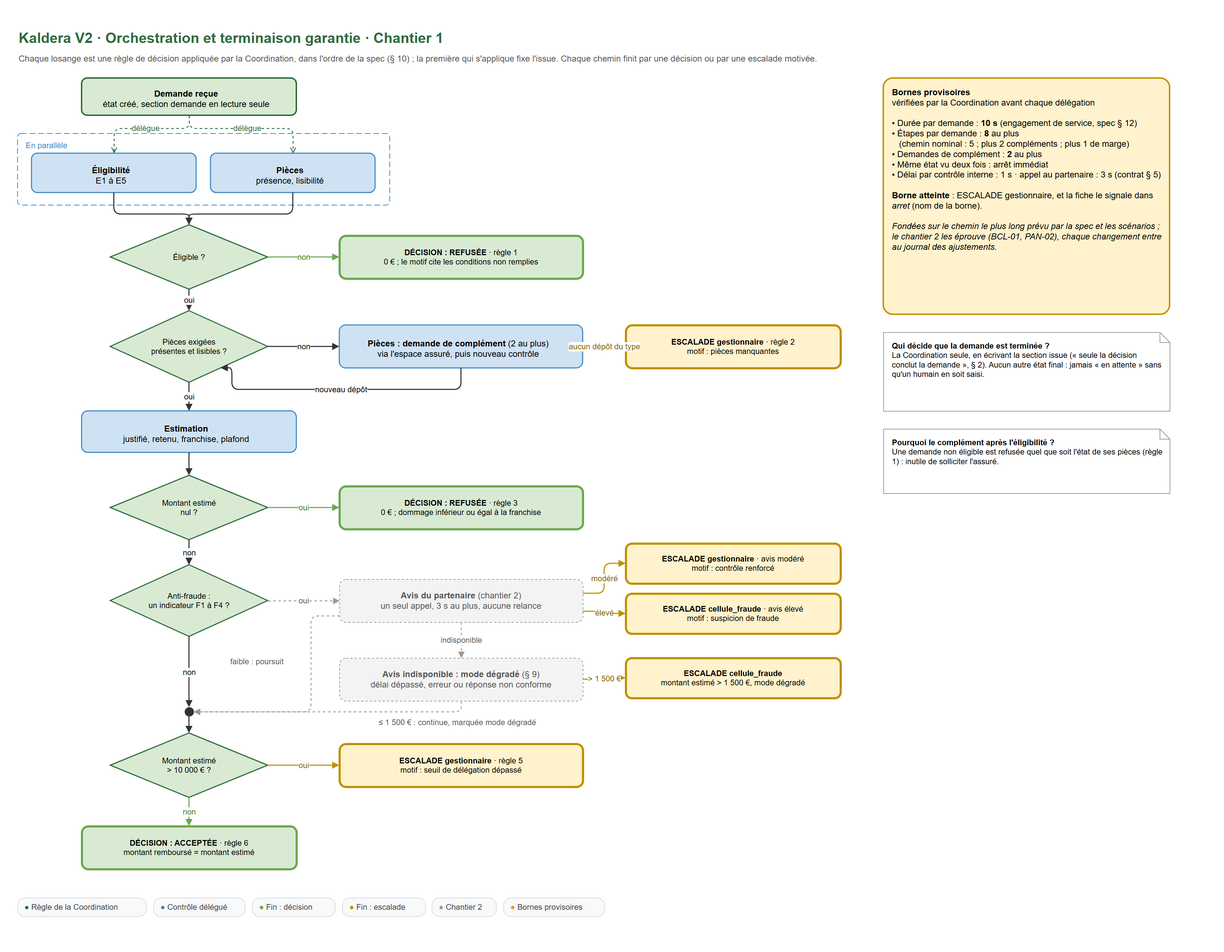
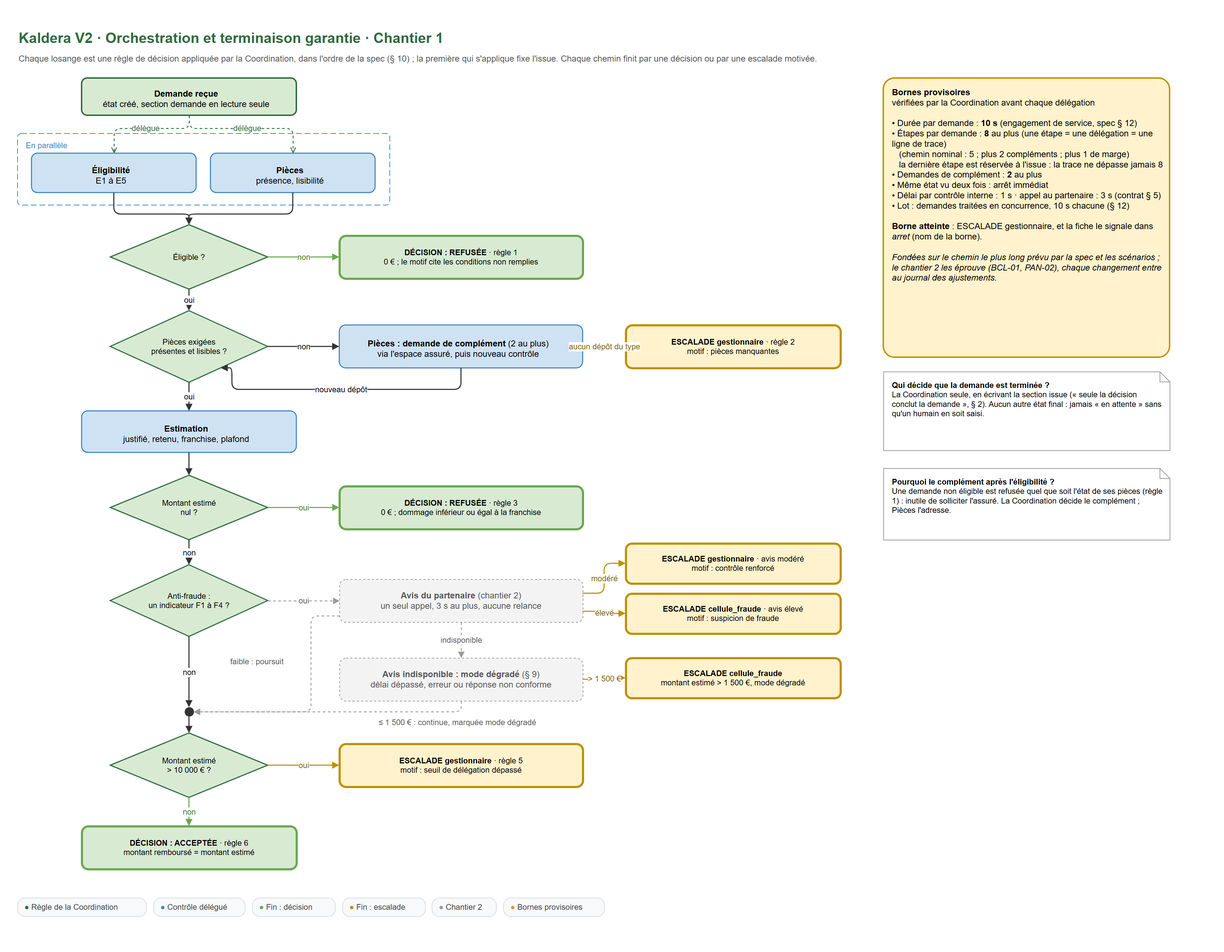
docs(chantier 1): relecture contre le brief, sept corrections
- pieces peut etre reecrite par son proprietaire apres chaque depot ;
  les autres sections metier ne sont ecrites qu'une fois
- definition d'une etape ; la derniere etape est reservee a l'issue,
  la trace ne depasse jamais etapes_max
- traiter_lot traite les demandes en concurrence (spec 12)
- la Coordination decide la demande de complement, Pieces l'adresse
- pourquoi cinq agents alors que le brief en cite quatre
- noms fixes des agents dans la trace et les metriques
- coherence des pieces = type attendu ; marqueur d'appel dans controle

Changed region(s): [[0.7129, 0.1248, 0.9608, 0.5305]]

diff --git a/scripts/make_schemas_ch1.py b/scripts/make_schemas_ch1.py
@@ -30,10 +30,10 @@ s.box("elig", "<b>Éligibilité</b> (règles en code) · <b>écrit : eligibilite
               + ROUGE_TXT + "chiffrer la demande, appliquer le plafond, juger les pièces ou la fraude." + FIN,
       50, 255, 400, 175, S_AGENT)
 s.box("pieces", "<b>Pièces justificatives</b> (code) · <b>écrit : pieces</b><br><br>"
-                "Vérifie présence, lisibilité et cohérence des pièces exigées. Demande un complément via l'espace assuré "
-                "(seulement si la demande est éligible).<br>"
+                "Vérifie présence, lisibilité et type attendu des pièces exigées. Adresse le complément via l'espace "
+                "assuré quand la Coordination le lui confie (demande éligible).<br>"
                 "Renvoie : complet, ou manquantes ; les factures lisibles.<br><br>"
-                + ROUGE_TXT + "conclure ou escalader la demande, chiffrer, juger la fraude." + FIN,
+                + ROUGE_TXT + "conclure ou escalader la demande, chiffrer, juger la fraude, décider seul d'un complément." + FIN,
       50, 445, 400, 185, S_AGENT)
 s.box("estim", "<b>Estimation</b> (règles en code) · <b>écrit : estimation</b><br><br>"
                "Montant justifié (factures lisibles), montant retenu (le plus petit des deux), "
@@ -115,21 +115,25 @@ s.box("t6", "<b>DÉCISION : ACCEPTÉE</b> · règle 6<br>montant remboursé = mo
 
 s.box("bornes", "<b>Bornes provisoires</b><br>vérifiées par la Coordination avant chaque délégation<br><br>"
                 "• Durée par demande : <b>10 s</b> (engagement de service, spec § 12)<br>"
-                "• Étapes par demande : <b>8</b> au plus<br>&nbsp;&nbsp;&nbsp;(chemin nominal : 5 ; plus 2 compléments ; plus 1 de marge)<br>"
+                "• Étapes par demande : <b>8</b> au plus (une étape = une délégation = une ligne de trace)<br>"
+                "&nbsp;&nbsp;&nbsp;(chemin nominal : 5 ; plus 2 compléments ; plus 1 de marge)<br>"
+                "&nbsp;&nbsp;&nbsp;la dernière étape est réservée à l'issue : la trace ne dépasse jamais 8<br>"
                 "• Demandes de complément : <b>2</b> au plus<br>"
                 "• Même état vu deux fois : arrêt immédiat<br>"
-                "• Délai par contrôle interne : 1 s · appel au partenaire : 3 s (contrat § 5)<br><br>"
+                "• Délai par contrôle interne : 1 s · appel au partenaire : 3 s (contrat § 5)<br>"
+                "• Lot : demandes traitées en concurrence, 10 s chacune (§ 12)<br><br>"
                 "<b>Borne atteinte</b> : ESCALADE gestionnaire, et la fiche le signale dans <i>arret</i> (nom de la borne).<br><br>"
                 "<i>Fondées sur le chemin le plus long prévu par la spec et les scénarios ; "
                 "le chantier 2 les éprouve (BCL-01, PAN-02), chaque changement entre au journal des ajustements.</i>",
-      1240, 95, 400, 330, S_AMBIG + "fillColor=#fff2cc;strokeColor=#bf9000;arcSize=4;")
+      1240, 95, 400, 390, S_AMBIG + "fillColor=#fff2cc;strokeColor=#bf9000;arcSize=4;")
 s.box("qui", "<b>Qui décide que la demande est terminée ?</b><br>"
              "La Coordination seule, en écrivant la section issue (« seule la décision conclut la demande », § 2). "
              "Aucun autre état final : jamais « en attente » sans qu'un humain en soit saisi.",
-      1240, 450, 400, 110, S_NOTE)
+      1240, 505, 400, 110, S_NOTE)
 s.box("comp", "<b>Pourquoi le complément après l'éligibilité ?</b><br>"
               "Une demande non éligible est refusée quel que soit l'état de ses pièces (règle 1) : "
-              "inutile de solliciter l'assuré.", 1240, 585, 400, 90, S_NOTE)
+              "inutile de solliciter l'assuré. La Coordination décide le complément ; Pièces l'adresse.",
+      1240, 640, 400, 100, S_NOTE)
 
 s.edge("a1", "s0", "e", E_DELEG, "délègue", [(270, 165), (165, 165)], sortie=(0.5, 1), entree=(0.5, 0))
 s.edge("a2", "s0", "p", E_DELEG, "délègue", [(270, 165), (415, 165)], sortie=(0.5, 1), entree=(0.5, 0))
@@ -170,8 +174,8 @@ s.ecrire("schema-2-orchestration", "Orchestration et terminaison", 1670, 1290)
 # =============================================================================================================
 s = Schema()
 s.box("t", "Kaldera V2 · Mémoire partagée de la demande · Chantier 1", 30, 20, 1100, 30, S_TITRE)
-s.box("st", "Un état par demande. Chaque agent écrit sa seule section métier, une seule fois ; la trace enregistre "
-            "qui a écrit quoi (interface.md).", 30, 54, 1200, 22, S_SOUS)
+s.box("st", "Un état par demande. Seul son propriétaire écrit une section métier ; la trace enregistre "
+            "qui a écrit quoi à chaque étape (interface.md).", 30, 54, 1200, 22, S_SOUS)
 
 s.box("agents", "Agents : chacun écrit sa section, lit seulement ce dont il a besoin", 30, 100, 400, 640, S_GROUPE)
 AG = S_AGENT + "fontSize=11;"
@@ -196,7 +200,7 @@ sections = [
      SEC_AGENT, 426),
     ("issue", "<b>issue</b> · écrite par la Coordination, conclut la demande<br>décision ou escalade, montant, motif, file, mode dégradé",
      SEC_ORCH, 506),
-    ("controle", "<b>controle</b> (hors métier) : compteurs des bornes, arret", SEC_ORCH, 584),
+    ("controle", "<b>controle</b> (hors métier) : compteurs des bornes, marqueur d'appel au partenaire, arret", SEC_ORCH, 584),
     ("trace", "<b>trace</b> (hors métier), ajout seul : une étape par ligne<br>agent, sections écrites, action, durée, statut",
      SEC_ORCH, 648),
 ]
@@ -208,7 +212,7 @@ for agent, section in [("ae", "eligibilite"), ("ap", "pieces"), ("aes", "estimat
 
 s.box("garde", "<b>Comment un agent n'écrase pas le travail d'un autre</b><br>"
                "• Une table fixe propriétaire de chaque section ; écrire dans une autre section est refusé (erreur de droits).<br>"
-               "• Chaque section métier est écrite une seule fois.<br>"
+               "• pieces est réécrite par Pièces après chaque dépôt de l'assuré ; les autres sections métier ne sont écrites qu'une fois.<br>"
                "• Éligibilité et Pièces tournent en parallèle sans conflit : sections différentes.<br>"
                "• La trace note l'agent et les sections écrites à chaque étape : la règle se vérifie par un test.",
       1130, 100, 400, 190, S_AMBIG)

diff --git a/chantier-1-equipe-orchestration.md b/chantier-1-equipe-orchestration.md
@@ -83,6 +83,9 @@ Questions associées :
 
 - [x] Quels sont exactement les agents ?
   **Réponse.** Cinq, un par section métier de `interface.md` : **Éligibilité** (`eligibilite`), **Pièces justificatives** (`pieces`), **Estimation** (`estimation`), **Anti-fraude**, liaison avec le partenaire (`avis_fraude`), et la **Coordination** (`issue`). « Une section métier n'est écrite que par un seul agent, et un agent n'écrit qu'une seule section métier. »
+  Le brief cite quatre agents (éligibilité, pièces, estimation, coordination). `interface.md` en impose un cinquième : il y a cinq sections métier, un agent par section, et la Coordination écrit déjà `issue`. La section `avis_fraude` revient donc à un agent de liaison avec le partenaire. Cet agent n'émet aucun avis : il calcule les indicateurs, appelle le partenaire et contrôle sa réponse.
+- [x] Sous quel nom chaque agent apparaît-il dans la trace ?
+  **Réponse.** Un nom fixe par agent, utilisé dans le champ `agent` de la trace et comme clé des métriques de `traiter_lot` (`interface.md`) : `coordination`, `eligibilite`, `pieces`, `estimation`, `antifraude`. Changer un nom casserait la lecture des métriques.
 - [x] Pour chaque agent : que peut-il faire, et que ne doit-il surtout pas faire ?
   **Réponse :** voir la carte des agents en fin de section et le schéma 1. Les frontières viennent du § 2 : l'éligibilité ne chiffre pas, l'estimation ne se prononce pas sur la fraude, l'avis de fraude vient du partenaire, seule la décision conclut.
 - [x] Les outils sont-ils partagés entre agents, ou chacun a-t-il les siens ?
@@ -110,7 +113,7 @@ def verifier_eligibilite(demande: Demande) -> ResultatEligibilite:
 | Agent | Entrée | Sortie | Erreurs possibles | Docstring (une phrase) |
 |---|---|---|---|---|
 | Éligibilité | contrat et sinistre de la demande | éligible oui ou non ; conditions non remplies | données incomplètes | Dit si le contrat couvre le sinistre, sans chiffrer |
-| Pièces justificatives | pièces, type de sinistre, dépôts de l'espace assuré | complet, ou pièces manquantes ou illisibles ; factures lisibles ; compléments demandés | données incomplètes | Dit si les pièces exigées sont présentes et lisibles, et demande les compléments, sans conclure la demande |
+| Pièces justificatives | pièces, type de sinistre, dépôts de l'espace assuré | complet, ou pièces manquantes ou illisibles ; factures lisibles ; compléments demandés | données incomplètes | Dit si les pièces exigées sont présentes, lisibles et du type attendu, et demande les compléments quand la Coordination le lui confie, sans conclure la demande |
 | Estimation | montant déclaré, formule, factures lisibles | montant justifié, montant retenu, montant estimé | données incomplètes | Calcule le montant remboursable, franchise et plafond compris, sans juger la fraude |
 | Anti-fraude | champs utiles de la demande, montant justifié | non requis ; ou avis (niveau, score, indicateurs, `evaluation_id`) ; ou indisponible avec la raison | délai dépassé, erreur du service, réponse non conforme : toutes rendent « indisponible », jamais une exception | Calcule les indicateurs F1 à F4 et, si l'un est présent, obtient l'avis du partenaire en un seul appel, sans jamais émettre d'avis lui-même |
 | Coordination | toutes les sections | section `issue` ; fiche de décision | borne atteinte, agent en échec : toutes deux mènent à une escalade motivée | Délègue chaque contrôle, applique les règles de décision dans l'ordre et conclut, sans refaire aucun contrôle |
@@ -120,7 +123,7 @@ def verifier_eligibilite(demande: Demande) -> ResultatEligibilite:
 | Agent | Garde-fou | Métrique de bon fonctionnement |
 |---|---|---|
 | Éligibilité | le motif cite chaque condition non remplie ; aucun accès au montant | échecs ; refus par condition (NOM-02, NOM-03, NOM-04, NOM-10, NOM-11 en couvrent chacune une) |
-| Pièces justificatives | demandes de complément bornées (2 au plus) ; la demande de complément n'est faite que si la demande est éligible | part des demandes avec complément ; échecs |
+| Pièces justificatives | demandes de complément bornées (2 au plus) ; une demande de complément n'est faite que sur délégation de la Coordination, après le résultat de l'Éligibilité | part des demandes avec complément ; échecs |
 | Estimation | le montant n'est jamais négatif, jamais supérieur au plafond de la formule, arrondi au centime (NOM-05 le vérifie) | échecs ; latence |
 | Anti-fraude | filtre sortant en liste blanche ; un seul appel par dossier (marqueur écrit par la Coordination avant la délégation) ; abandon à 3 s ; réponse contrôlée avant usage (chantier 2) | appels externes, réponses écartées, part des demandes en mode dégradé |
 | Coordination | bornes vérifiées avant chaque délégation ; seule à écrire `issue` | étapes consommées par demande, bornes atteintes (`arret`), part d'escalades |
@@ -142,11 +145,13 @@ Autres frontières tranchées :
 | Escalader pour pièces manquantes | Pièces, Coordination | Pièces le constate ; la Coordination escalade (règle 2), car « seule la décision conclut la demande » (§ 2) |
 | Calculer le montant justifié | Pièces, Estimation | Estimation (§ 6), à partir des factures lisibles fournies par Pièces |
 | Un montant déclaré supérieur aux factures | Pièces (« cohérence avec la déclaration », § 5), Anti-fraude (F4, § 7) | Anti-fraude, par l'indicateur F4 ; ce n'est pas un motif de demande de complément. Le scénario AF-06 le confirme : 2 000 € déclarés, 1 500 € justifiés, demande acceptée avec un avis faible |
+| La « cohérence avec la déclaration » (§ 5) | Pièces, Anti-fraude | Pièces vérifie que les pièces sont du type exigé pour le type de sinistre déclaré (une photo pour un dégât des eaux, un dépôt de plainte pour un vol). Une pièce ne porte que `type`, `lisible` et `montant` (§ 3) ; l'écart de montant relève de F4 |
+| Décider d'une demande de complément | Pièces, Coordination | La Coordination, après le résultat de l'Éligibilité ; Pièces l'adresse à l'assuré. Pièces ne lit pas `eligibilite` |
 
 ### Dépendances et parallélisme
 
 - [x] Quelles étapes dépendent les unes des autres, et lesquelles peuvent s'exécuter en parallèle ?
-  **Réponse.** Éligibilité et vérification des pièces sont indépendantes et tournent en parallèle. L'Estimation attend les factures lisibles de Pièces. L'Anti-fraude attend l'Estimation (F4). La Coordination conclut en dernier. L'appel au partenaire n'est jamais lancé plus tôt : appeler pour une demande qui sera refusée gaspillerait l'unique appel autorisé et enverrait des données sans nécessité.
+  **Réponse.** Éligibilité et vérification des pièces sont indépendantes et tournent en parallèle. La demande de complément, elle, attend l'Éligibilité : la Coordination ne la confie à Pièces que si la demande est éligible. L'Estimation attend les factures lisibles de Pièces. L'Anti-fraude attend l'Estimation (F4). La Coordination conclut en dernier. L'appel au partenaire n'est jamais lancé plus tôt : appeler pour une demande qui sera refusée gaspillerait l'unique appel autorisé et enverrait des données sans nécessité.
 - [x] Quand deux résultats obtenus en parallèle se contredisent (par exemple : éligible, mais pièces incomplètes), quelle règle l'emporte ?
   **Réponse.** L'ordre des règles du § 10 : la première qui s'applique fixe l'issue. Une demande non éligible est refusée quel que soit l'état de ses pièces (règle 1), et la demande de complément n'est alors jamais adressée à l'assuré.
 
@@ -156,7 +161,7 @@ Autres frontières tranchées :
 |---|---|---|---|---|---|
 | Coordination | délègue, vérifie les bornes, applique les règles du § 10, conclut | toutes les sections | `issue`, fiche de décision | refaire un contrôle | code |
 | Éligibilité | conditions E1 à E5 de la spec | contrat, sinistre | éligible, conditions non remplies | chiffrer, appliquer le plafond, juger les pièces ou la fraude | code |
-| Pièces justificatives | présence, lisibilité, cohérence des pièces ; demandes de complément | pièces, dépôts de l'espace assuré | complet ou manquantes, factures lisibles | conclure ou escalader, chiffrer, juger la fraude | code |
+| Pièces justificatives | présence, lisibilité, type attendu des pièces ; demandes de complément confiées par la Coordination | pièces, dépôts de l'espace assuré | complet ou manquantes, factures lisibles | conclure ou escalader, chiffrer, juger la fraude, décider seul d'une demande de complément | code |
 | Estimation | montant justifié, retenu, estimé ; franchise et plafond | montant déclaré, formule, factures lisibles | montants | juger la fraude, revenir sur l'éligibilité | code |
 | Anti-fraude | indicateurs F1 à F4 ; un appel au partenaire ; contrôle de la réponse | champs utiles de la demande, montant justifié | non requis, avis ou indisponible | émettre un avis en interne, envoyer une donnée hors contrat, relancer un appel | code |
 
@@ -170,10 +175,15 @@ Autres frontières tranchées :
   **Réponse (§ 2, § 11).** Deux issues seulement : une **décision** (acceptée ou refusée) ou une **escalade** vers `gestionnaire` ou `cellule_fraude`, avec un motif lisible. Il n'existe pas d'état « en attente » sans qu'un humain en ait été saisi. Le schéma 2 montre que chaque chemin mène à l'une de ces issues.
 - [x] Comment borne-t-on les boucles ?
   **Réponse.** Une seule boucle existe dans le parcours : la demande de complément de pièces, qui reprend le contrôle après chaque dépôt de l'assuré (§ 5). Elle est bornée par le nombre de compléments, par la détection d'un état déjà vu et par les bornes globales (étapes et durée).
+- [x] Qu'est-ce qu'une étape ?
+  **Réponse.** Une délégation de la Coordination à un agent, soit une ligne de trace. Une demande de complément, avec la lecture du dépôt de l'assuré et le nouveau contrôle des pièces, compte pour une étape. L'écriture de l'issue par la Coordination est la dernière étape.
 - [x] Quelles bornes au départ, et sur quelle base les choisit-on ?
   **Réponse :** voir le tableau ci-dessous. La durée vient de l'engagement de service ; le nombre d'étapes vient du chemin le plus long prévu par la spec et les scénarios ; le délai du partenaire vient de son contrat.
 - [x] Que se passe-t-il quand une borne est atteinte ?
-  **Réponse.** Jamais un arrêt silencieux. La demande reçoit une issue, une escalade vers `gestionnaire`, et sa fiche le signale dans `arret` avec le nom de la borne (`interface.md`). La file de destination n'est pas fixée par la spec : **choix à confirmer** avec le client.
+  **Réponse.** Jamais un arrêt silencieux. La demande reçoit une issue, une escalade vers `gestionnaire`, et sa fiche le signale dans `arret` avec le nom de la borne (`interface.md`). La file de destination n'est pas fixée par la spec, et le scénario BCL-01 ne vérifie que l'escalade et l'arrêt signalé : **choix à confirmer** avec le client.
+  Pour que la trace ne dépasse jamais `etapes_max` (`interface.md`), la Coordination ne délègue plus aucun contrôle dès que la trace atteint `etapes_max` moins une étape : la dernière est réservée à l'écriture de l'issue. De même, elle arrête de déléguer avant la fin des 10 s, en gardant le temps de produire la fiche.
+- [x] Comment un lot de demandes est-il traité ?
+  **Réponse (§ 12).** « Le traitement d'une demande n'est jamais retardé par celui d'une autre. » `traiter_lot` traite donc les demandes du lot **en concurrence**, chacune avec son propre état et sa propre durée de 10 s ; les fiches sont rendues dans l'ordre des demandes (`interface.md`). Traitées l'une après l'autre, trois demandes qui attendent chacune le partenaire jusqu'à 3 s (scénario PAN-02) retarderaient la troisième d'environ 6 s. Le plan d'épreuve mesure ce point sur PAN-01 et PAN-02.
 - [x] Qu'est-ce qu'une escalade « motivée » ?
   **Réponse (§ 8).** Elle précise la file destinataire et un motif lisible par le gestionnaire qui reprend le dossier : la règle ou la borne en cause, et l'étape atteinte. La trace complète accompagne la fiche.
 - [x] Que se passe-t-il quand un agent interne plante, renvoie un format invalide ou dépasse son délai ?
@@ -188,7 +198,7 @@ Les valeurs fixées par la spec ou le contrat ne sont pas provisoires. Les autre
 | Borne | Valeur de départ | Justification | Scénario d'épreuve qui la teste |
 |---|---|---|---|
 | Durée par demande (`duree_max_s`) | 10 s | engagement de service (§ 12), maximum autorisé par `interface.md`. Si la mesure montre qu'une demande arrêtée à 10 s dépasse l'engagement le temps de produire sa fiche, la borne descendra à 8 s | PAN-02 (partenaire lent) |
-| Étapes par demande (`etapes_max`) | 8 | chemin nominal : 5 étapes (éligibilité, pièces, estimation, anti-fraude, issue) ; plus 2 demandes de complément ; plus 1 de marge | BCL-01 (piège à boucle) |
+| Étapes par demande (`etapes_max`) | 8 | chemin nominal : 5 étapes (éligibilité, pièces, estimation, anti-fraude, issue) ; plus 2 demandes de complément, soit 7 pour le chemin le plus long ; plus 1 de marge. La dernière étape est toujours réservée à l'issue | BCL-01 (piège à boucle) |
 | Demandes de complément par demande | 2 | NOM-07 et PAN-01 en demandent une ; aucun scénario n'en justifie davantage | BCL-01 |
 | Même état vu deux fois | arrêt immédiat | une pièce toujours illisible après un nouveau dépôt ne fait pas avancer la demande | BCL-01 |
 | Appels au partenaire par dossier | 1 exactement | contrat, § 6 : un seul appel, aucune relance, tout doublon est refusé et signalé | PAN-01, PAN-02, scénarios `invalide` |
@@ -196,7 +206,9 @@ Les valeurs fixées par la spec ou le contrat ne sont pas provisoires. Les autre
 | Délai par contrôle interne | 1 s | contrôles en code, sans réseau ; une seconde laisse du temps à l'appel externe | cas nominal |
 | Budget de tokens ou de coût | sans objet | aucun LLM dans le chemin de décision | (aucun) |
 
-Lecture du scénario BCL-01 : la facture est illisible, et le seul dépôt de l'assuré est une facture tout aussi illisible. Ce n'est pas « aucun dépôt du type demandé » (§ 5), donc la spec demanderait un nouveau complément, sans fin. Le scénario attend une escalade avec `arret` : c'est la borne « même état vu deux fois » qui l'arrête. Cette lecture sera vérifiée contre les tests d'acceptance quand ils seront fournis.
+Lecture du scénario BCL-01 : la facture est illisible, et le seul dépôt de l'assuré est une facture tout aussi illisible. Ce n'est pas « aucun dépôt du type demandé » (§ 5), donc la spec demanderait un nouveau complément, sans fin. Le scénario attend une escalade avec `arret` : c'est la borne « même état vu deux fois » qui l'arrête, à la quatrième étape (éligibilité, pièces, demande de complément qui retrouve le même état, issue). Cette lecture sera vérifiée contre les tests d'acceptance quand ils seront fournis.
+
+Les dépôts de l'espace assuré se lisent dans l'ordre : le premier dépôt répond à la première demande de complément, le deuxième à la deuxième (§ 3).
 
 ## 5. La mémoire partagée
 
@@ -207,9 +219,9 @@ Le brief demande une mémoire partagée de la demande, avec un état commun et u
 - [x] Sous quelle forme, et où vit-elle ?
   **Réponse.** En mémoire, un objet par demande, créé au début de `traiter_demande` et jamais partagé entre deux demandes : le traitement d'une demande n'en retarde pas une autre (§ 12). À la fin, la fiche de décision est construite depuis `issue`, `avis_fraude`, la trace et `arret`.
 - [x] Accès maîtrisé : qui lit et qui écrit quels champs ?
-  **Réponse :** voir le tableau ci-dessous. Chaque agent écrit sa seule section, une seule fois ; il lit seulement ce dont il a besoin.
+  **Réponse :** voir le tableau ci-dessous. Chaque agent écrit sa seule section ; il lit seulement ce dont il a besoin.
 - [x] Comment un agent évite-t-il d'écraser le travail d'un autre ?
-  **Réponse.** Une table fixe donne le propriétaire de chaque section ; toute écriture d'un agent dans une autre section est refusée par une erreur de droits. Chaque section métier ne s'écrit qu'une fois. Éligibilité et Pièces, qui tournent en parallèle, écrivent dans des sections différentes : aucun conflit possible. La trace enregistre l'agent et les sections écrites à chaque étape, ce qui rend la règle vérifiable par un test.
+  **Réponse.** Une table fixe donne le propriétaire de chaque section ; toute écriture d'un agent dans une autre section est refusée par une erreur de droits. Seul le propriétaire écrit sa section, et il peut la réécrire à une étape suivante : `pieces` est mise à jour par Pièces après chaque dépôt de l'assuré ; les autres sections métier ne sont écrites qu'une fois. Éligibilité et Pièces, qui tournent en parallèle, écrivent dans des sections différentes : aucun conflit possible. La trace enregistre l'agent et les sections écrites à chaque étape, ce qui rend la règle vérifiable par un test.
 - [x] Peut-on reprendre une demande après un crash, sans la bloquer de nouveau ?
   **Réponse.** Une demande se traite en 10 s au plus : en cas de crash, elle est reprise depuis le début, les contrôles en code donnant le même résultat. **Une exception, imposée par le contrat du partenaire** : un seul appel par dossier, et un doublon est signalé comme manquement. La Coordination écrit donc le marqueur « appel au partenaire délégué » dans `controle` juste avant de déléguer l'appel ; à la reprise, un marqueur sans avis rend l'avis « indisponible » (mode dégradé), et le partenaire n'est jamais rappelé.
 - [x] Quels champs de la mémoire ne doivent jamais partir chez le partenaire ? [E3]
@@ -259,7 +271,7 @@ Le filtre des données sortantes, la validation des réponses du partenaire et l
 | Refus automatiques (règles 1 et 3) | article 22 du RGPD | le service juridique du client |
 | Lecture du scénario BCL-01 | dépôt illisible : la spec ne dit pas s'il compte comme un dépôt | les tests d'acceptance, absents de l'archive |
 | Durée de 10 s ou 8 s | dépend du temps mesuré pour produire la fiche | le plan d'épreuve du chantier 2 |
-| Traitement d'un lot en parallèle | « une demande n'en retarde pas une autre » (§ 12) : à mesurer sur PAN-01 et PAN-02 | le plan d'épreuve du chantier 2 |
+| Attente réelle de l'assuré après une demande de complément | les 10 s portent sur le traitement automatisé (§ 12) ; dans les scénarios, les dépôts sont déjà dans `espace_assure`. En production, l'attente d'un dépôt qui peut prendre des jours n'est pas décrite | le client |
 
 ## Schémas
 
